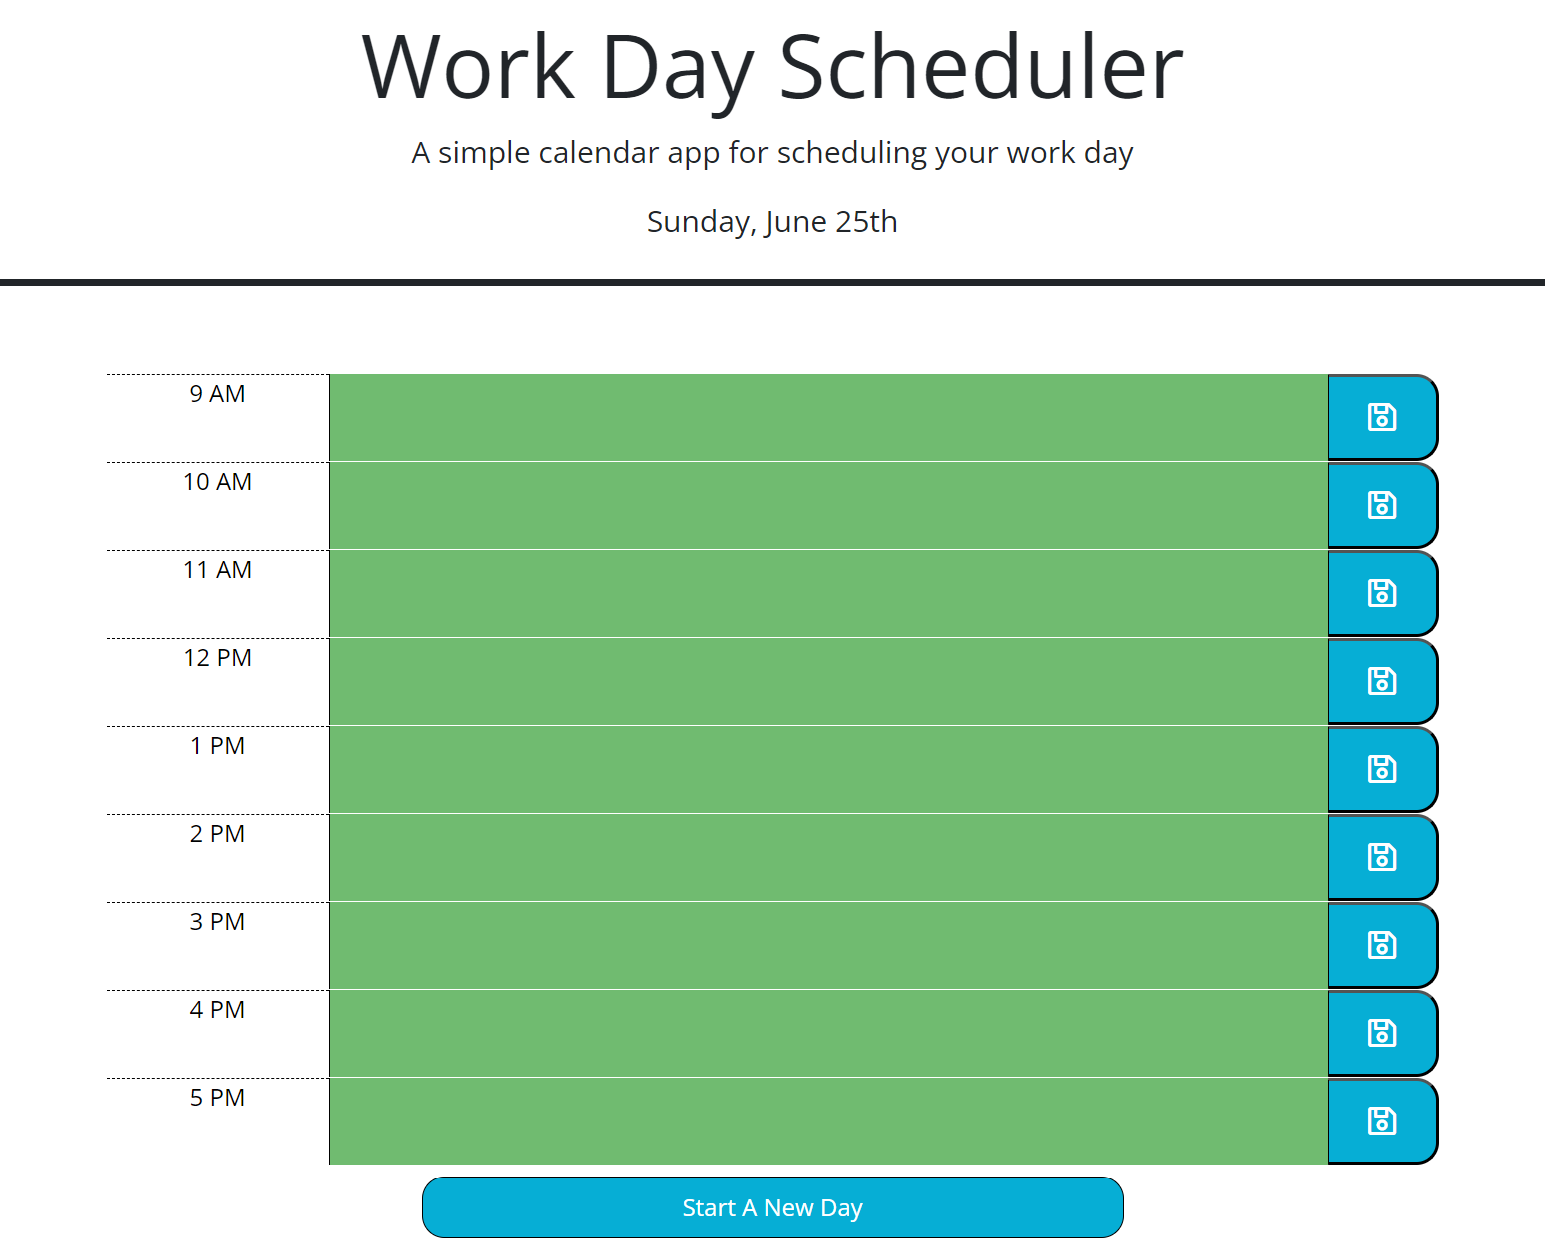
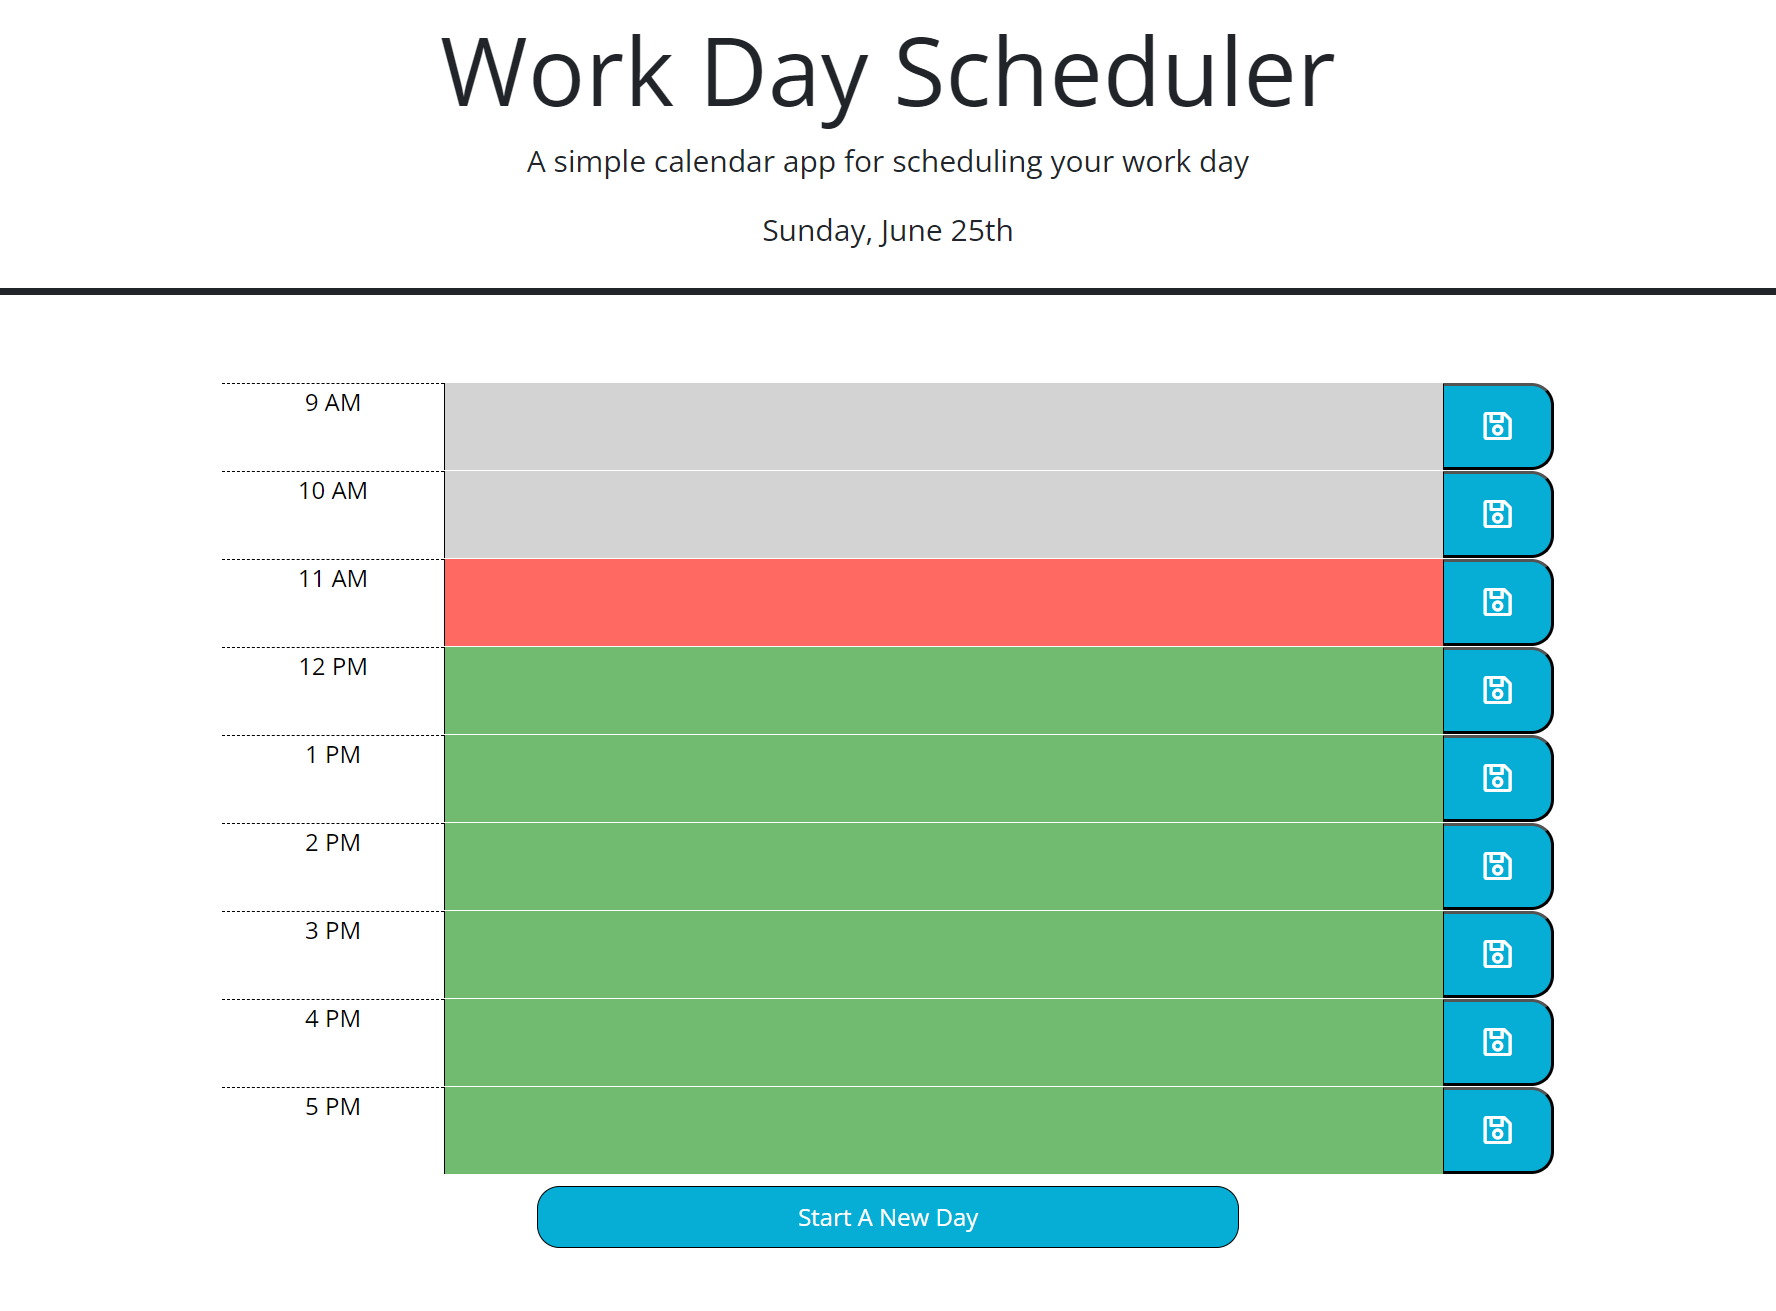
minor changes to the screenshot & mobile style

diff --git a/Develop/Assets/JS/script.js b/Develop/Assets/JS/script.js
@@ -1,7 +1,18 @@
 //This function is to capture today date and week day name to the page header
 function getToday() {
+  var ordinalText = "";
+  if (dayjs().format('D') === "1" || dayjs().format('D') === "21" || dayjs().format('D') === "31") {
+    ordinalText = "st";
+  } else if (dayjs().format('D') === "2" || dayjs().format('D') === "22") {
+    ordinalText = "nd";
+  } else if (dayjs().format('D') === "3" || dayjs().format('D') === "23") {
+    ordinalText = "rd";
+  } else {
+    ordinalText = "th";
+  }
+  console.log("day number ",dayjs().format('D'))
   var todayDate = dayjs().format('dddd, MMMM D');
-  $("#currentDay").text(todayDate);
+  $("#currentDay").text(todayDate+ordinalText);
   return (todayDate);
 }
 

diff --git a/Develop/index.html b/Develop/index.html
@@ -40,7 +40,8 @@
       integrity="sha256-iu/zLUB+QgISXBLCW/mcDi/rnf4m4uEDO0wauy76x7U="
       crossorigin="anonymous"
     ></script>
-    <script src="https://unpkg.com/dayjs@1.11.3/plugin/advancedFormat.d.ts"></script>
+    <script src="https://cdn.jsdelivr.net/npm/dayjs@1/plugin/advancedFormat.js"></script>
+    <script>dayjs.extend(window.dayjs_plugin_advancedFormat)</script>
     <script src="./Assets/JS/script.js"></script>
   </body>
 </html>

diff --git a/Develop/Assets/CSS/style.css b/Develop/Assets/CSS/style.css
@@ -100,7 +100,7 @@ textarea {
     margin: 5px 0;
   }
 
-  .future {
+  .future,.present, .past {
     border-radius: 10px;
   }
 
